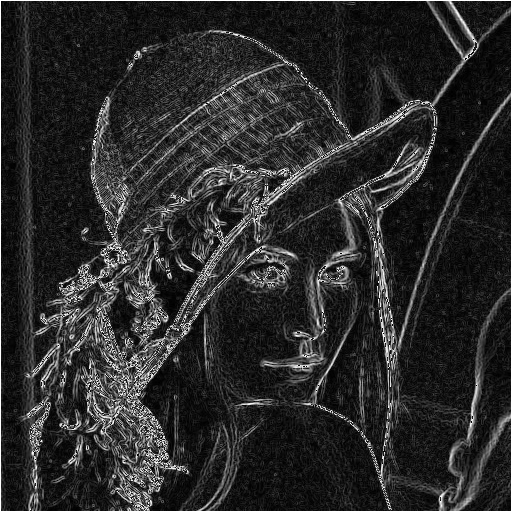
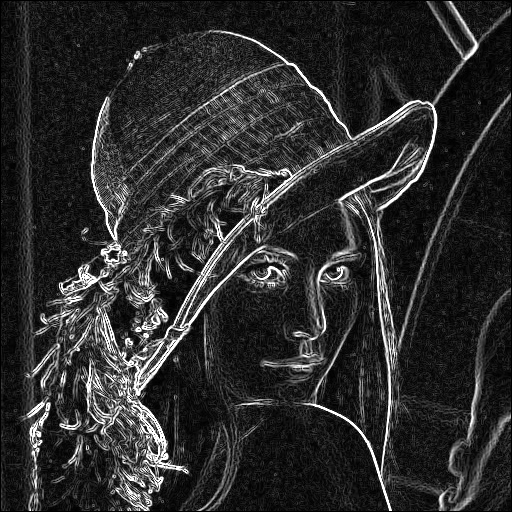
Sobel min/max fix

diff --git a/filtr/Sobel.java b/filtr/Sobel.java
@@ -23,7 +23,7 @@ public class Sobel {
     }
 
     static int intensityToGrayScale(int i) {
-        i &= 0xFF;
+        i = Math.min(0xFF, Math.max(0, i));
         return 0xFF000000 | (i << 16) | (i << 8) | i;
     }
 
@@ -31,6 +31,8 @@ public class Sobel {
         int rw, gx, gy, g[];
 
         g = new int[rgbs.length];
+        for (int i = 0; i < w; i++)
+            g[i] = g[i * w] = g[i * w + w - 1] = g[w * h - w + i] = 0xFF000000;
 
         for (int r = 1; r < h - 1; r ++) {
             rw = r * w;
